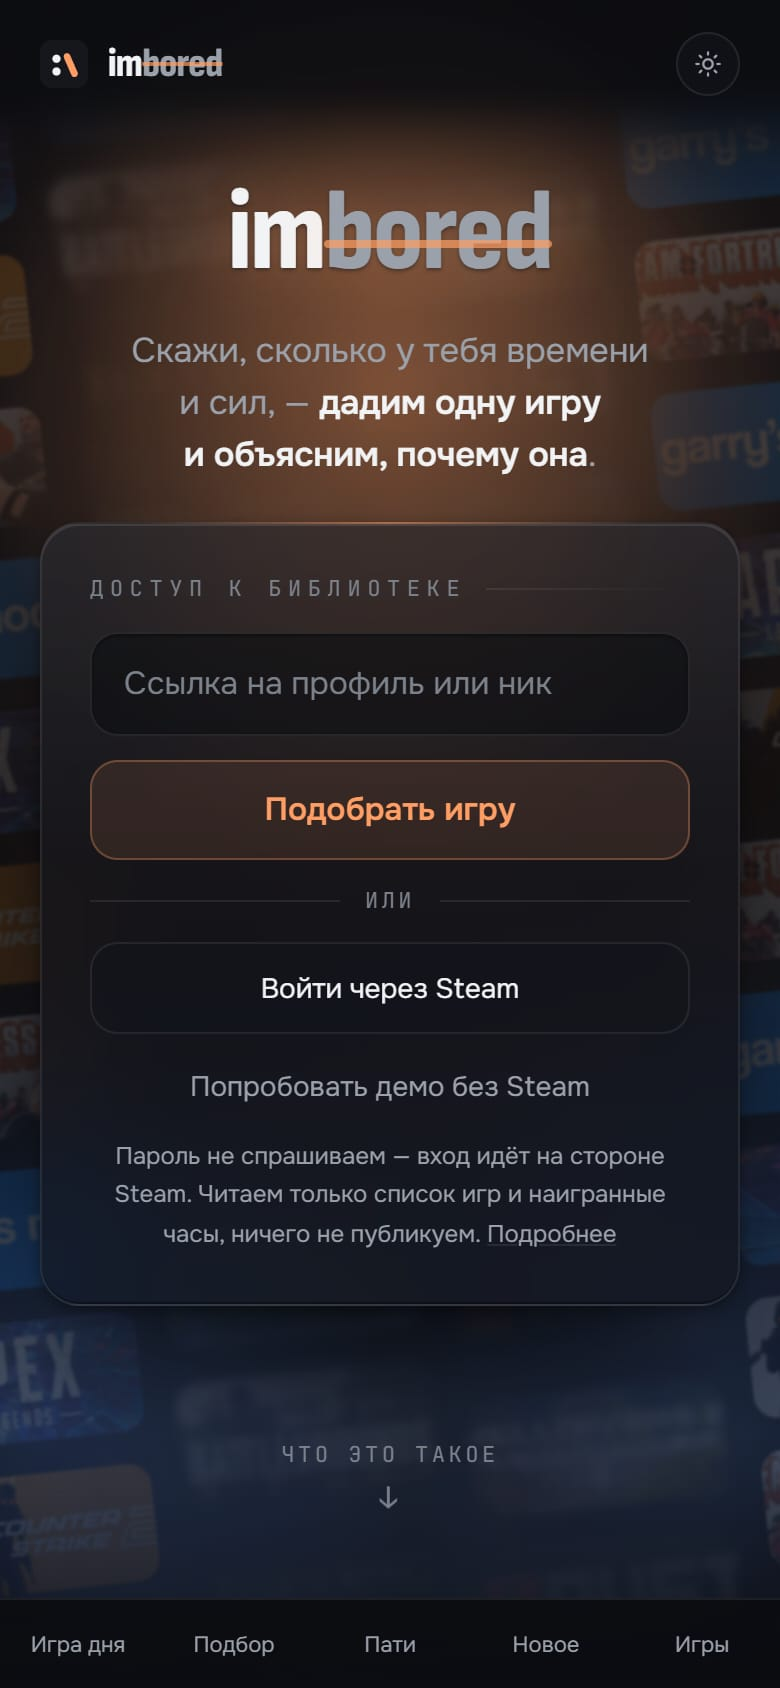
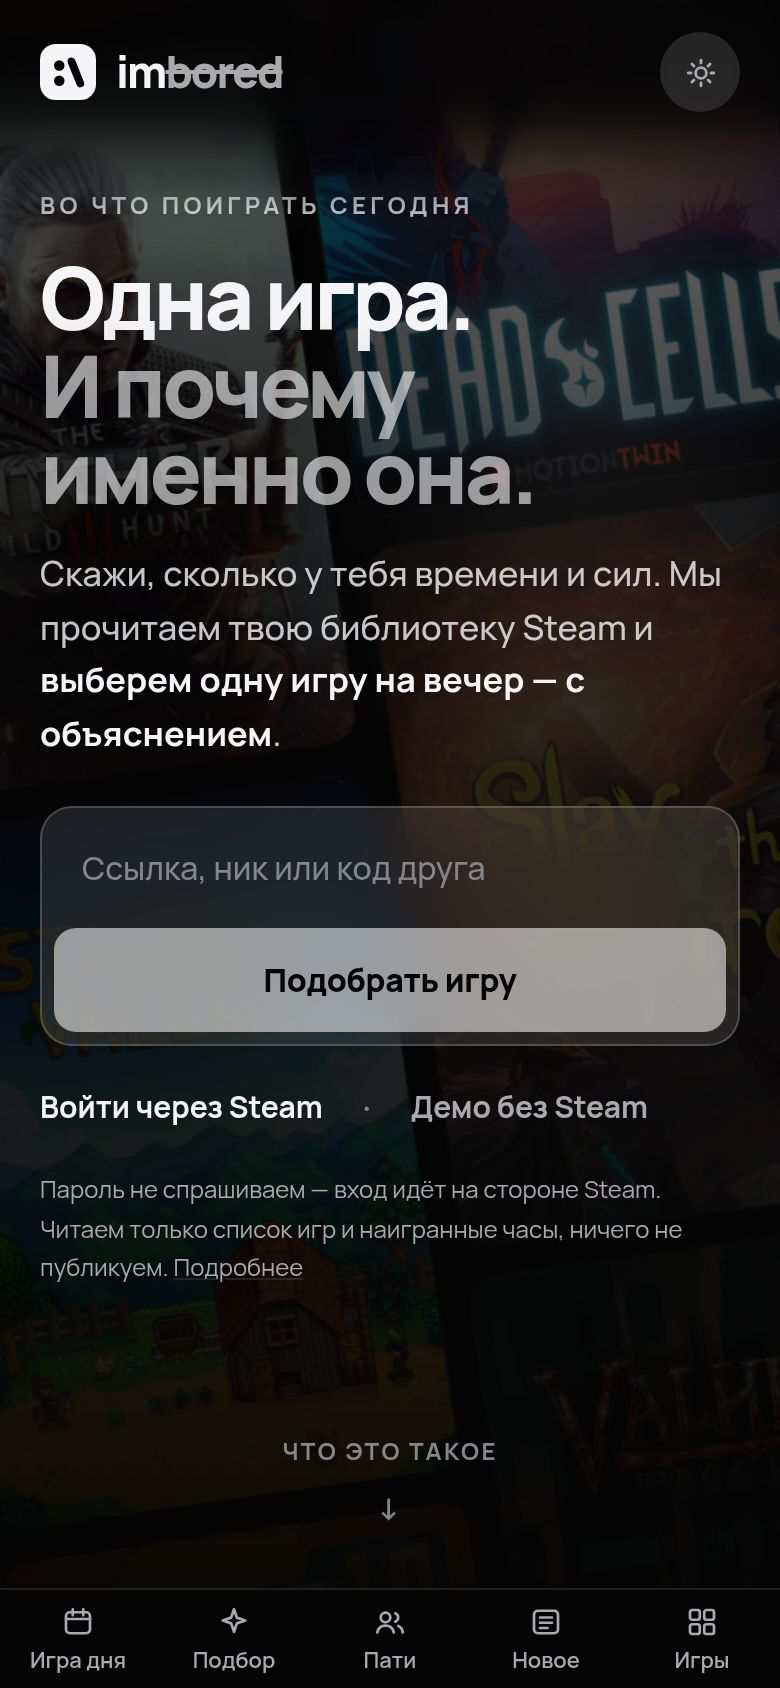
«Премьера»: журнал прохода и новые снимки для установки
В docs/landing-visual.md — запись о проходе «Премьеры»: что стало общим
(палитра, Manrope, кнопки по ролям, иконки, капсула, веер) и решения,
которые стоит помнить (логотип вместо названия, скрим по колонке текста,
отказ от выдуманного процента, «из многих — одна», почему страница игры
не перешла на library_hero, .media-card, шрифт карточек для чатов).

public/screenshots пересняты с нового первого экрана главной: телефон
390×844 @2x и десктоп 1280×800 @1.5x, размеры прежние.

Claude-Session: https://claude.ai/code/session_014cE7tVswJRVvZV8QeDuhmC

diff --git a/docs/landing-visual.md b/docs/landing-visual.md
@@ -2053,3 +2053,57 @@ fetch) сняты, дифф API пуст.
 
 Проверено: `lint` 0 ошибок, `test` 1130/1130, `build` — `/` осталась
 `○ (Static)` с revalidate 1h. Кода не менялось.
+
+# «Премьера»: весь сайт в языке стримингового сервиса
+
+Направление выбрано после четырёх раундов макетов: почти чёрный фон, на
+котором играет арт игры, белая главная кнопка, стеклянная вторая, логотипы
+игр вместо набранных названий и зелёный — единственный фирменный цвет.
+Лента постеров живёт только в герое главной; ниже фон спокойный.
+
+## Что стало общим
+
+- **Палитра и шрифт.** Manrope вместо Onest и Sofia Sans Condensed; токены тем
+  пересчитаны, имена ролей прежние, контраст сходится в четырёх темах.
+  JetBrains Mono остался у кодов комнат, ссылки-приглашения и кода ошибки —
+  все остальные числа набраны Manrope с табличными цифрами.
+- **Кнопки по ролям:** `.btn-ember` (белая, одна на экран), `.btn-glass`,
+  `.btn-circle` (иконка, подпись в `sr-only`), `.pill`, `.seg`, `.link-more`.
+- **Иконки** — `components/Icon.tsx`, один штрих 2 px; глифы ▾ ✓ ✕ 🚫 → ушли.
+- **Капсула игры** — `GameCardBody`: обложка без панели и подпись под ней.
+  Заменила восемь копий плитки; каркас `SkelTile` той же формы.
+- **Веер постеров** — `PosterFan`: полка разделов на главной, ответы квиза,
+  настроения комнаты, заголовок `/rooms`.
+
+## Решения, которые стоит помнить
+
+- **Логотип вместо названия** (`HeroTitle`) — h1 остаётся текстом для
+  скринридера и фокуса; логотип ждём не дольше 900 мс, потом текст.
+- **Скрим героя слева и снизу**, а не во всю ширину: гарантия 0.63 над
+  колонкой текста сохранена, край колонки считается от геометрии разметки
+  (`--text-edge`). Колонка героя поэтому `max-w-xl`.
+- **Процента совпадения нет.** У выдачи такого числа нет, а сцена
+  «Совместимость» прямо обещает не показывать красивую неправду. Зелёным
+  стал источник выдачи («Пора вернуться»).
+- **«Из многих — одна».** `/api/prepare` отдаёт до 24 appid самых
+  наигранных игр (из уже прочитанного снапшота); за кольцом прогрева плывёт
+  стена его библиотеки, а готовая выдача выходит из неё постером на 1.3 с.
+  Нет при «уменьшить движение», в рулетке и у игр не из Steam.
+- **Страница игры не перешла на `library_hero`.** `lib/herolcp.test.ts`
+  закрепляет расчёт: LCP — лёгкая капсула, подложка из того же файла
+  (38 КБ против 230+). Свет поменялся, картинки — нет.
+- **`.media-card`** — тёмные токены для поверхности внутри обычной страницы
+  (карта колоды). От `.media-dark` отличается тем, что шапка по ней не
+  темнеет: её правило ищет героя сверху.
+- **Липких фильтров в `/library` нет**: контент живёт под ScrollSmoother,
+  и `position: sticky` внутри transform не держится.
+- **Карточки для чатов.** Manrope для satori — один файл (латиница +
+  кириллица, вес 800, собран из вариативного `Manrope[wght].ttf`). Двумя
+  файлами под одним именем satori брал первый, и кириллица уходила в
+  JetBrains Mono без пробелов.
+- **Потолок карточки входа перемерен:** 244 px (гость: 168 на десктопе,
+  241 на телефоне; фолбэк 107/127).
+
+Проверено на каждом коммите: `lint` без ошибок, `test` 2680/2680, `tsc`
+чисто, `build` — `/` пререндерится статически с revalidate 1h. Снимки PWA
+в `public/screenshots` пересняты с нового первого экрана.
